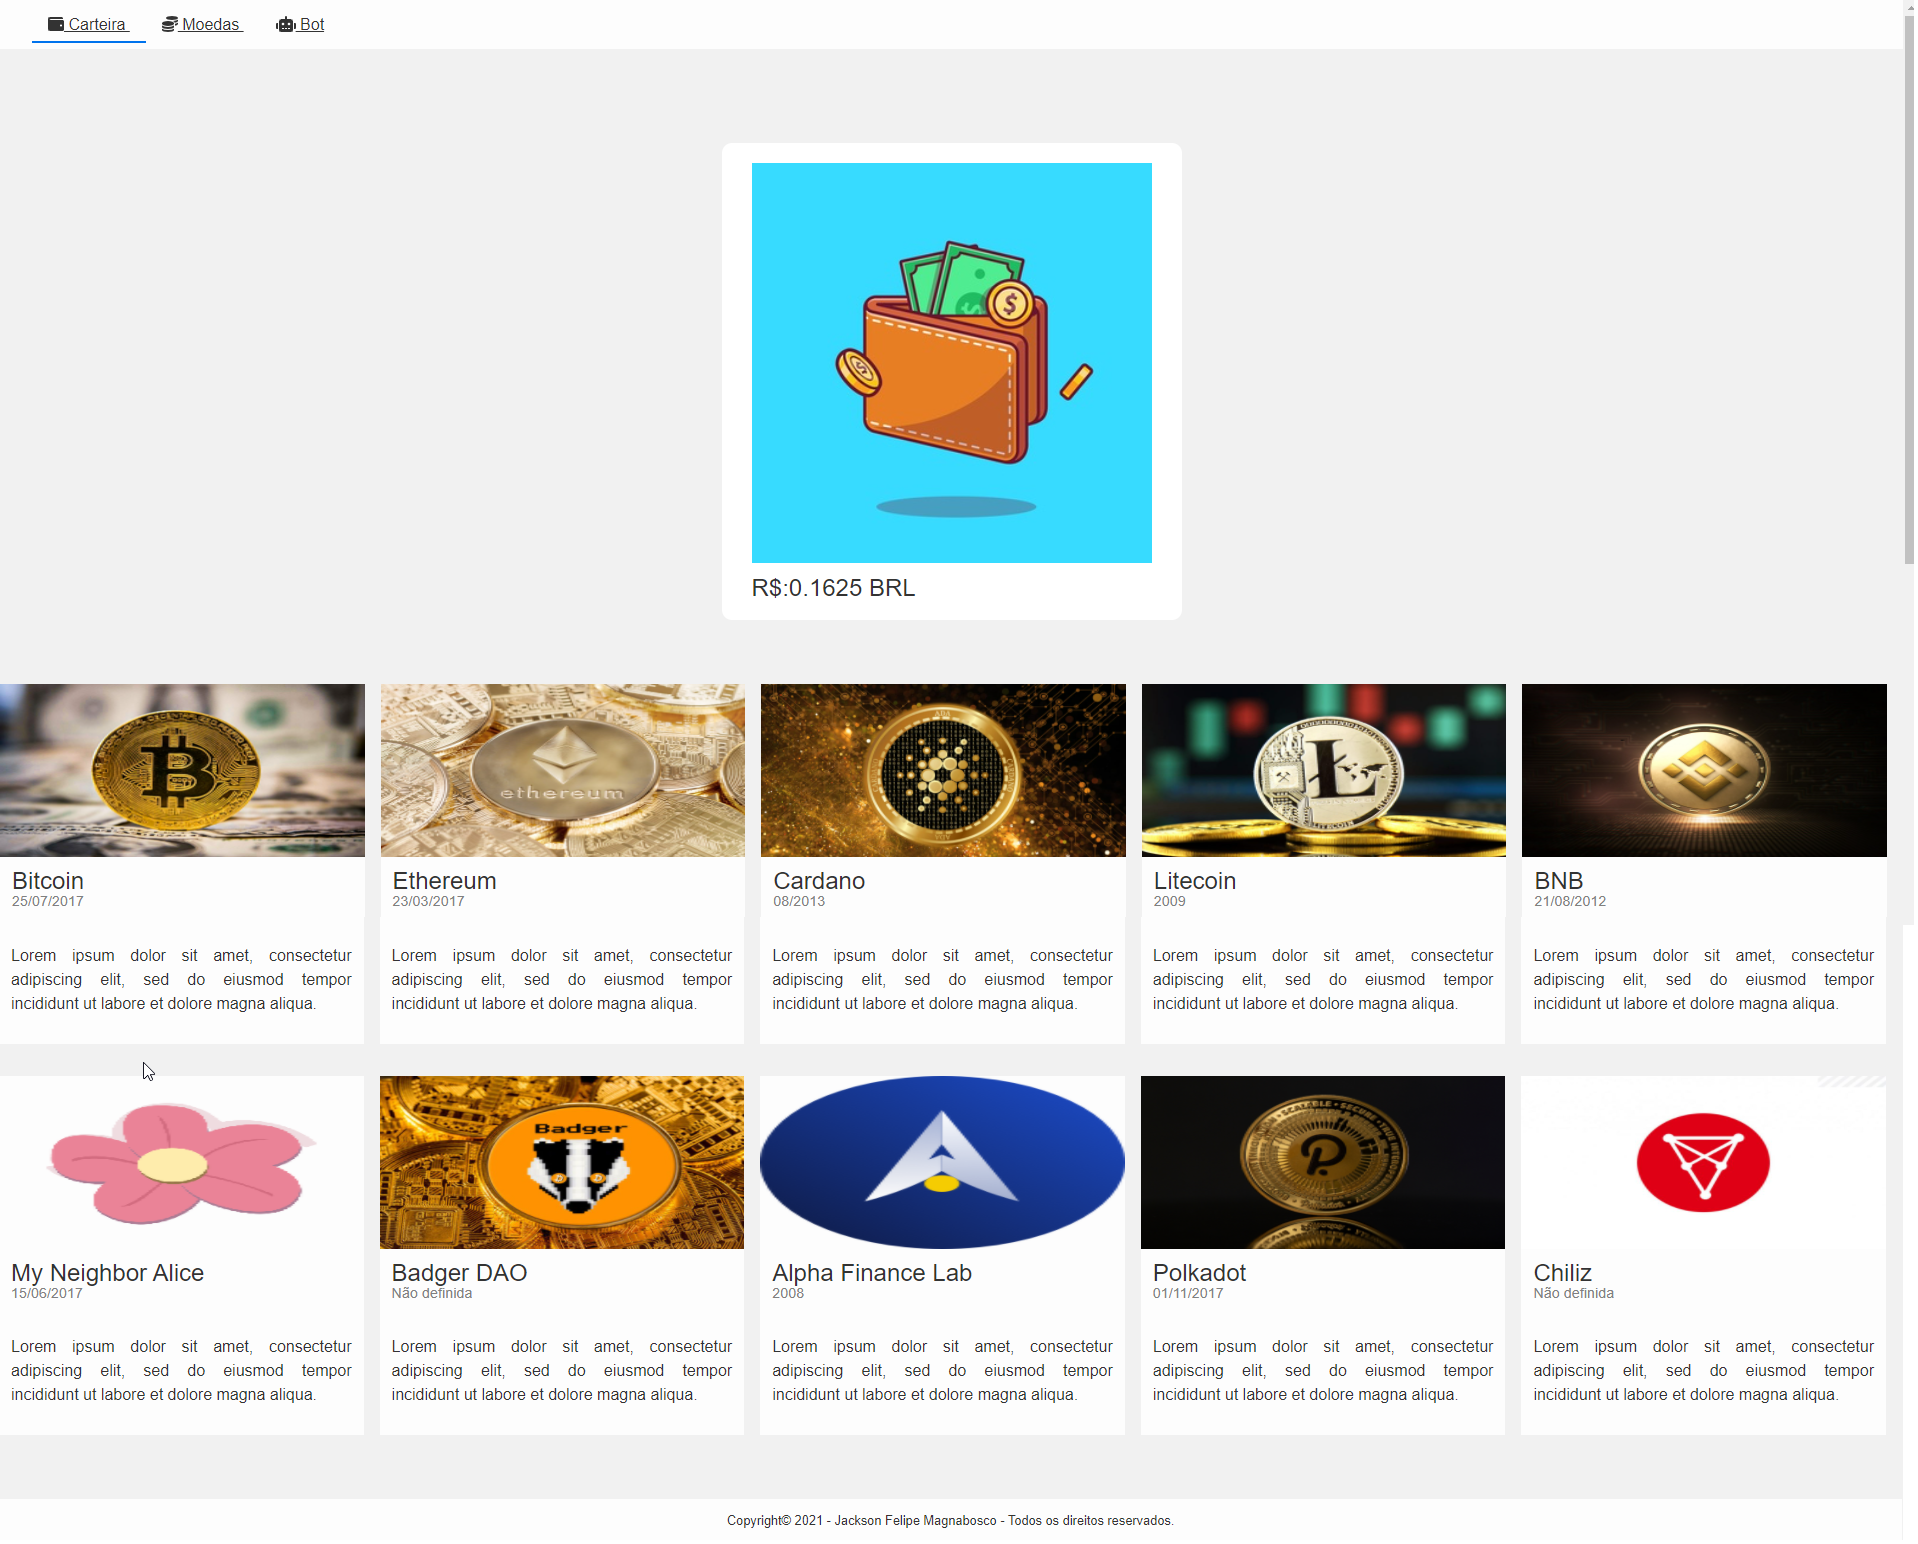
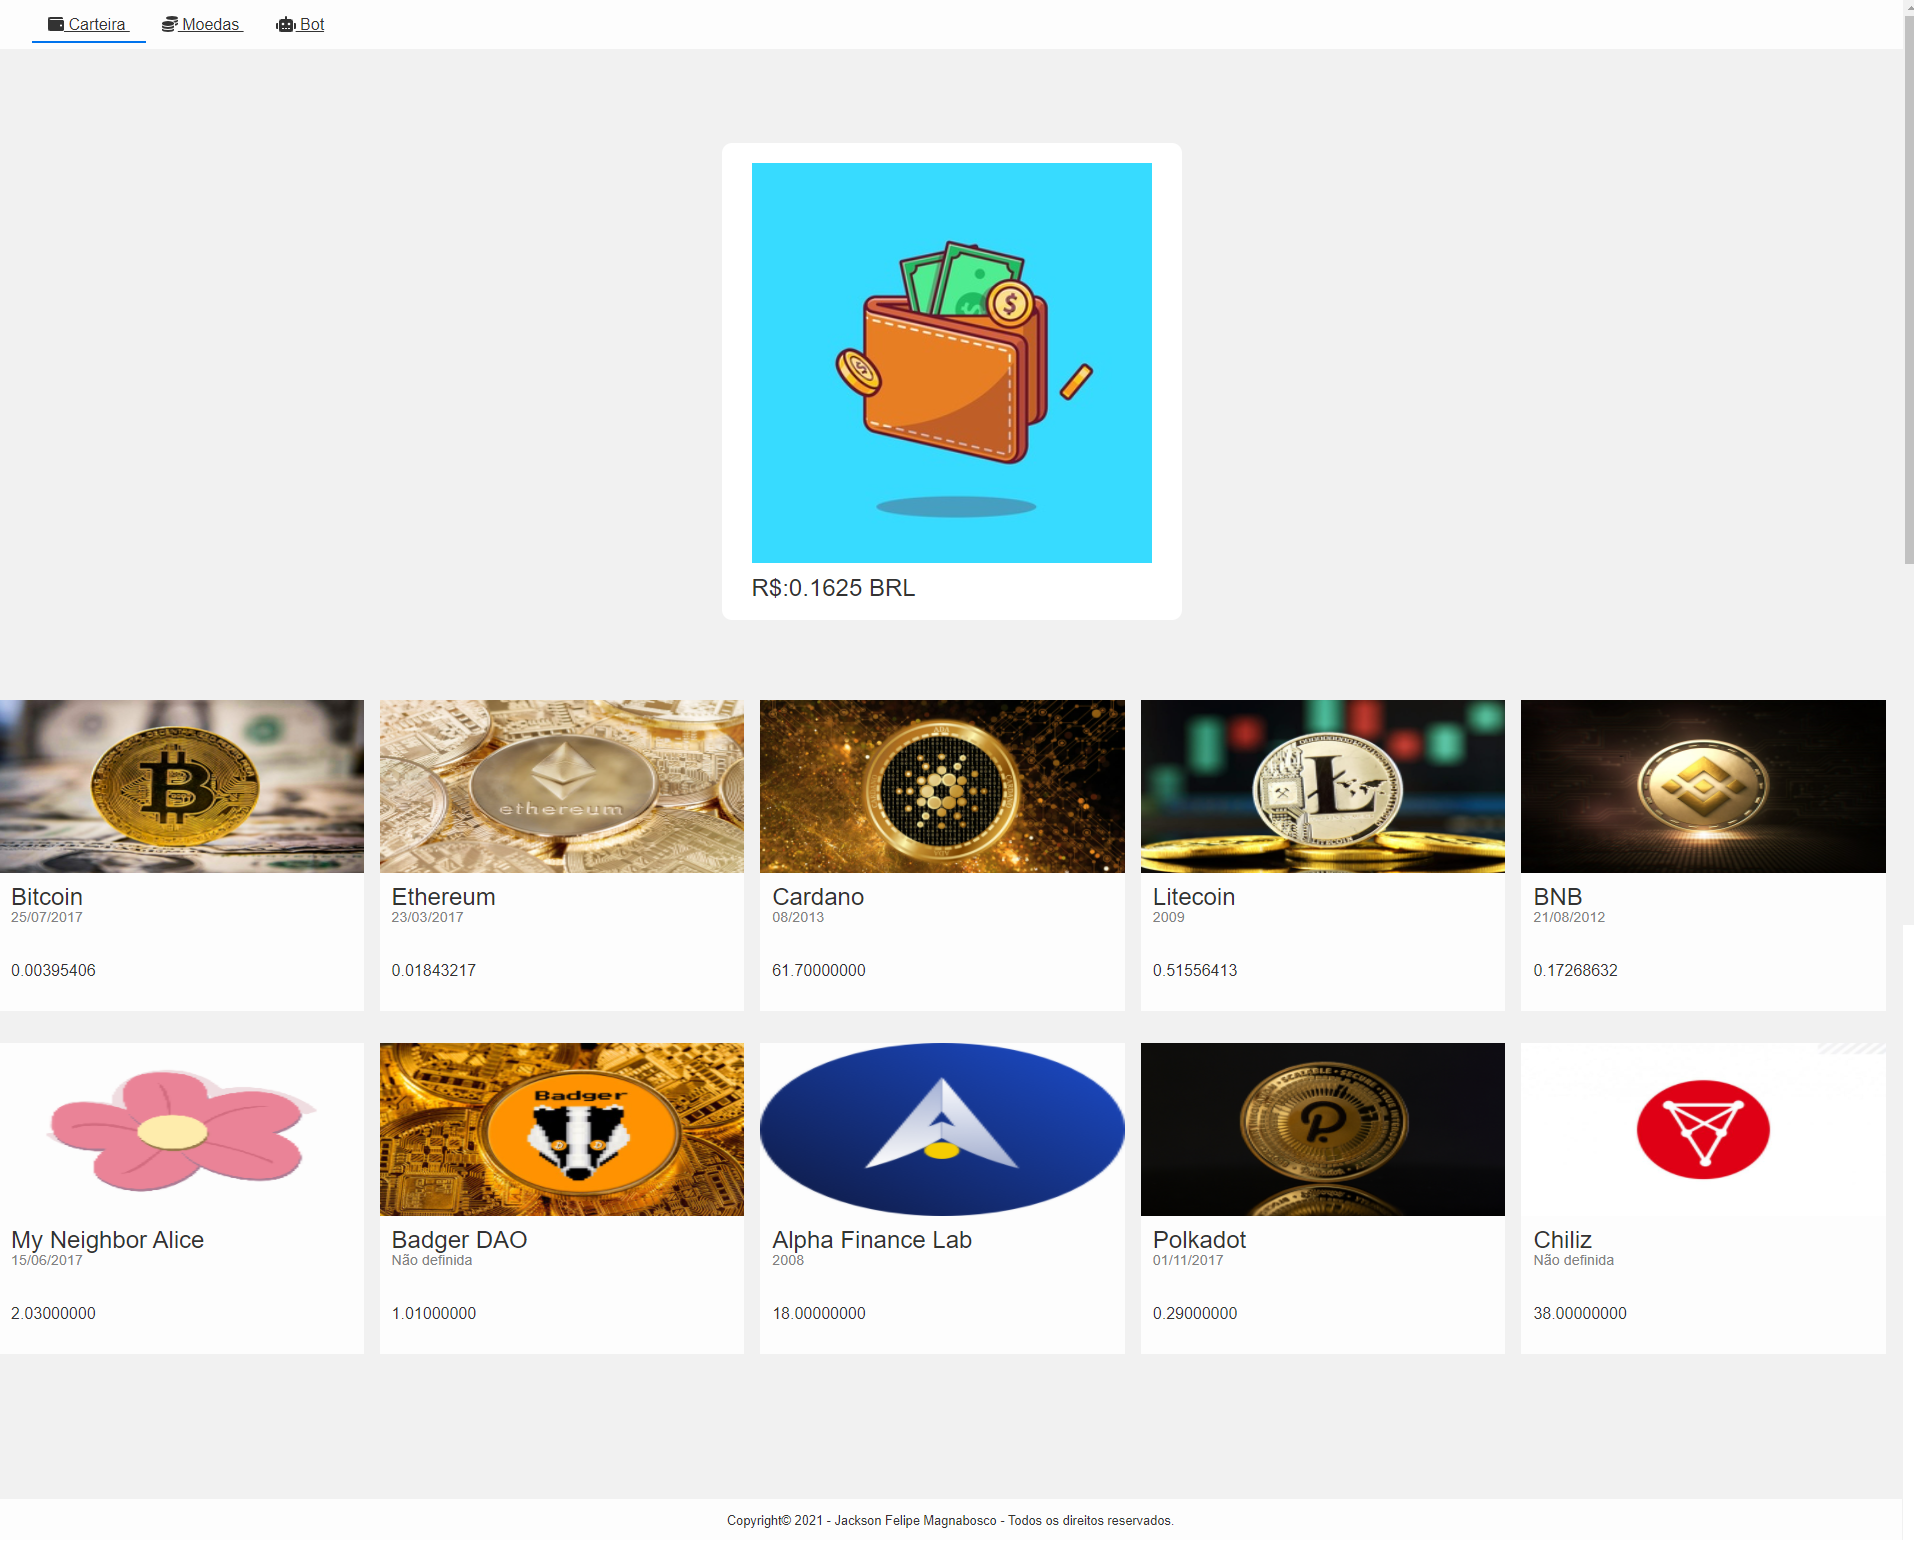
value coins

Changed region(s): [[0.0, 0.4352, 0.9844, 0.9326], [0.8306, 0.6839, 0.9228, 0.8083]]

diff --git a/public/javascripts/carteira.js b/public/javascripts/carteira.js
@@ -4,20 +4,130 @@ const api = require("./api");
 const symbol = process.env.SYMBOL;
 
 async function wallet() {
-    try {
-      const account = await api.accountInfo();
-      const coins = account.balances.filter(b => symbol.indexOf(b.asset) !== -1);
-      let typeSymbol = coins.map((e,index)=> coins[index][Object.keys(e)[0]]);
-      let valueCoin = coins.map((e,index)=> coins[index][Object.keys(e)[1]]);
-      var subCoin = valueCoin[2].substr(0, 6);
-      var moeda = subCoin + " " + typeSymbol[2];
-      return await moeda
-    } catch (error) {
-        console.log("Error", error)
-        throw error
-    }
+  try {
+    const account = await api.accountInfo();
+    const coins = account.balances.filter(b => symbol.indexOf(b.asset) !== -1);
+    let typeSymbol = coins.map((e, index) => coins[index][Object.keys(e)[0]]);
+    let valueCoin = coins.map((e, index) => coins[index][Object.keys(e)[1]]);
+    var subCoin = valueCoin[2].substr(0, 6);
+    var moeda = subCoin + " " + typeSymbol[2];
+    return await moeda
+  } catch (error) {
+    console.log("Error", error)
+    throw error
+  }
+}
+
+async function walletBTC() {
+  try {
+    const carteira = await api.accountInfo();
+    const coins = carteira.balances.filter(b => b.asset === 'BTC')
+    return coins
+  } catch (error) {
+    console.log("Error", error)
+    throw error
+  }
+}
+
+async function walletETH() {
+  try {
+    const carteira = await api.accountInfo();
+    const coins = carteira.balances.filter(b => b.asset === 'ETH')
+    return coins
+  } catch (error) {
+    console.log("Error", error)
+    throw error
+  }
+}
+
+async function walletADA() {
+  try {
+    const carteira = await api.accountInfo();
+    const coins = carteira.balances.filter(b => b.asset === 'ADA')
+    return coins
+  } catch (error) {
+    console.log("Error", error)
+    throw error
+  }
+}
+
+async function walletLTC() {
+  try {
+    const carteira = await api.accountInfo();
+    const coins = carteira.balances.filter(b => b.asset === 'LTC')
+    return coins
+  } catch (error) {
+    console.log("Error", error)
+    throw error
+  }
+}
+
+async function walletBNB() {
+  try {
+    const carteira = await api.accountInfo();
+    const coins = carteira.balances.filter(b => b.asset === 'BNB')
+    return coins
+  } catch (error) {
+    console.log("Error", error)
+    throw error
+  }
+}
+
+async function walletALICE() {
+  try {
+    const carteira = await api.accountInfo();
+    const coins = carteira.balances.filter(b => b.asset === 'ALICE')
+    return coins
+  } catch (error) {
+    console.log("Error", error)
+    throw error
+  }
+}
+
+async function walletBADGER() {
+  try {
+    const carteira = await api.accountInfo();
+    const coins = carteira.balances.filter(b => b.asset === 'BADGER')
+    return coins
+  } catch (error) {
+    console.log("Error", error)
+    throw error
+  }
+}
+
+async function walletALPHA() {
+  try {
+    const carteira = await api.accountInfo();
+    const coins = carteira.balances.filter(b => b.asset === 'ALPHA')
+    return coins
+  } catch (error) {
+    console.log("Error", error)
+    throw error
+  }
+}
+
+async function walletDOT() {
+  try {
+    const carteira = await api.accountInfo();
+    const coins = carteira.balances.filter(b => b.asset === 'DOT')
+    return coins
+  } catch (error) {
+    console.log("Error", error)
+    throw error
+  }
+}
+
+async function walletCHZ() {
+  try {
+    const carteira = await api.accountInfo();
+    const coins = carteira.balances.filter(b => b.asset === 'CHZ')
+    return coins
+  } catch (error) {
+    console.log("Error", error)
+    throw error
+  }
 }
 
 module.exports = {
-  wallet
+  wallet, walletBTC, walletETH, walletADA, walletLTC, walletBNB, walletALICE, walletBADGER, walletALPHA, walletCHZ, walletDOT
 }

diff --git a/app/routes/home.js b/app/routes/home.js
@@ -1,14 +1,36 @@
 require("../../public/javascripts/api");
 const axios = require("axios");
-const { wallet } = require("../../public/javascripts/carteira");
+const { wallet, walletBTC, walletETH, walletADA, walletLTC, walletBNB,walletALICE, walletBADGER, walletALPHA, walletCHZ, walletDOT } = require("../../public/javascripts/carteira");
 
 
 module.exports = function (app) {
 
   (async function () {
     var moeda = await wallet()
+    var btc = await walletBTC();
+    var moedaBTC = btc[0].free;
+    var eth = await walletETH();
+    var moedaETH = eth[0].free;
+    var ada = await walletADA();
+    var moedaADA = ada[0].free;
+    var ltc = await walletLTC();
+    var moedaLTC = ltc[0].free;
+    var bnb = await walletBNB();
+    var moedaBNB = bnb[0].free;
+    var alice = await walletALICE();
+    var moedaAlice = alice[0].free;
+    var badger = await walletBADGER();
+    var moedaBadger = badger[0].free;
+    var alpha = await walletALPHA();
+    var moedaAlpha = alpha[0].free;
+    var dot = await walletDOT();
+    var moedaDot = dot[0].free;
+    var chz = await walletCHZ();
+    var moedaChz = chz[0].free;
     app.get('/', function (req, res) {
-      res.render("index", { value: moeda });
+      res.render("index", { value: moeda, btcValue: moedaBTC, ethValue: moedaETH
+      , adaValue: moedaADA, ltcValue: moedaLTC, bnbValue: moedaBNB, aliceValue: moedaAlice, badgerValue: moedaBadger
+      , alphaValue: moedaAlpha, dotValue: moedaDot, chzValue: moedaChz  });
     });
   })()
 }
